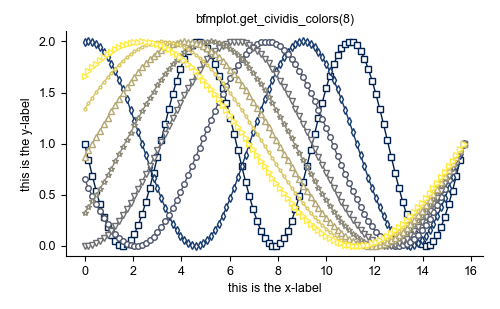
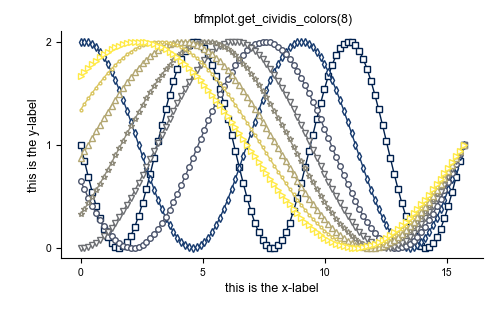
added some tick stuff

diff --git a/bfmplot/tools.py b/bfmplot/tools.py
@@ -137,3 +137,38 @@ def arrow(ax,
                                  ),
                 **text_kwargs
                 )
+
+def stupid_strip_ticks(ax):
+    """Don't use this."""
+
+    X = ax.get_xticks(), ax.get_xticklabels()
+    Y = ax.get_yticks(), ax.get_yticklabels()
+
+    for i, (loc, lab) in enumerate([ X, Y ]):
+        
+        indices = [ 0, -1 ]
+
+        new_loc = []
+        new_lab = []
+
+        for ndx in indices:
+            new_loc.append(loc[ndx])
+            new_lab.append(lab[ndx])
+
+        if i == 0:
+            ax.set_xticks(new_loc)
+            #ax.set_xticklabels(new_lab)
+        else:
+            ax.set_yticks(new_loc)
+            #ax.set_yticklabels(new_lab)
+        
+
+def set_n_ticks(ax=None,nx=3,ny=2):
+    """Set the number of major ticks for each axis"""
+    if ax is None:
+        ax = pl.gca()
+    old_ax = pl.gca()
+    pl.sca(ax)
+    pl.locator_params(axis='y', nbins=nx)
+    pl.locator_params(axis='x', nbins=ny)
+    pl.sca(old_ax)

diff --git a/bfmplot/test.py b/bfmplot/test.py
@@ -9,7 +9,7 @@ def sin_test(n=8,text_position='start'):
     #pl.figure(figsize=bp.phys_rev_column())
     pl.figure(figsize=bp.golden_ratio(5))
 
-    x = np.linspace(0,5*np.pi,100)
+    x = np.linspace(1,5*np.pi,100)
 
     for i in range(n):
         pl.plot(x, 1-np.sin(x[::-1]/np.sqrt(i+1)), marker=bp.markers[i],mfc='w',label='$i=%d$'%i)
@@ -19,11 +19,18 @@ def sin_test(n=8,text_position='start'):
     leg = pl.legend()
     bp.align_legend_right(leg)
 
-    bp.arrow(pl.gca(), r'$i$', (6, 0.8), (3, 1.8), text_position=text_position)
+    bp.arrow(pl.gca(), r'$i$', 
+             (3, 1.8), 
+             (6, 0.8), 
+             text_position=text_position)
 
 
     pl.xlabel('hello')
     pl.ylabel('hello')
+
+    bp.set_n_ticks(pl.gca(), 3, 2)
+
+    #pl.xscale('log')
 
     pl.gcf().tight_layout()
 

diff --git a/bfmplot/__init__.py b/bfmplot/__init__.py
@@ -12,7 +12,11 @@ mpl.rcParams['legend.fontsize'] = 'medium'
 mpl.rcParams['figure.titlesize'] = 'medium'
 mpl.rcParams['axes.titlesize'] = 'medium'
 mpl.rcParams['figure.figsize'] = golden_ratio(figwidth)
+mpl.rcParams['xtick.labelsize'] = 'small'
+mpl.rcParams['ytick.labelsize'] = 'small'
 mpl.rcParams['lines.markersize'] = 4
+mpl.rcParams['lines.linewidth'] = 1.0
+
 
 
 # colors

diff --git a/sandbox/color_scan.py b/sandbox/color_scan.py
@@ -42,6 +42,7 @@ for colors,name in zip([
 
     bp.set_color_cycle(colors)
     sin_test(n=8,text_position='start',with_legend=False)
+    bp.set_n_ticks(pl.gca(),nx=4,ny=4)
 
     name = name.replace('(','_')
     name = name.replace(')','_')
